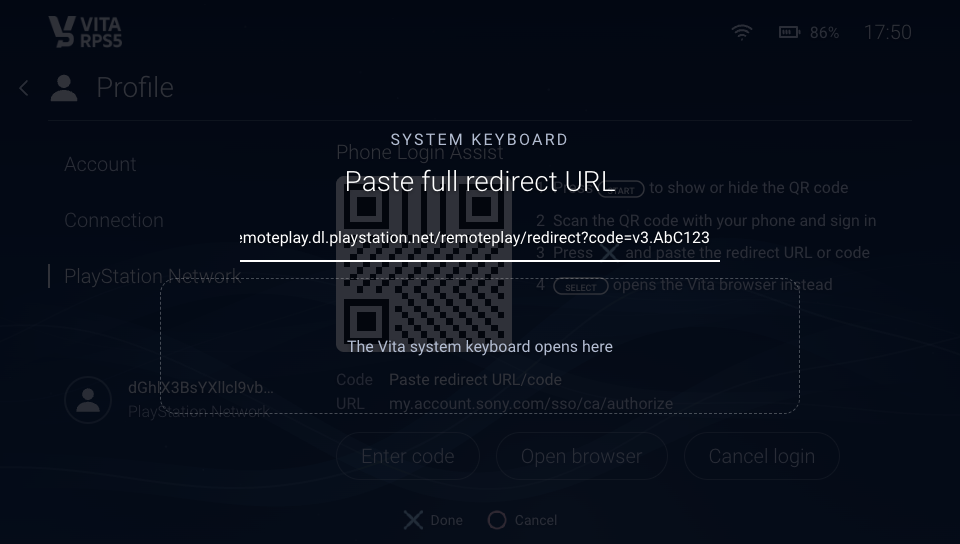
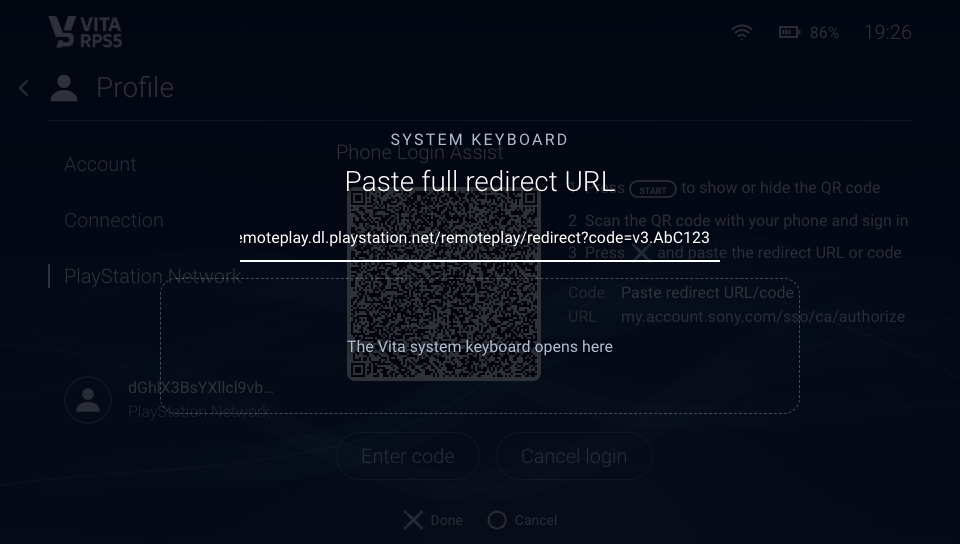
docs(ui): mock matches the built Phone Login Assist pane (#351) (#352)
* docs(ui): mock matches the built Phone Login Assist pane (#351)

PR #350 built a 216 px QR slot with a 194 px plate (93 modules at 2 px plus a
2-module quiet zone), three steps, Code and URL in the text column under the
steps, and only Enter code / Cancel login. The mock still showed the old
176 px 25-module QR, a fourth Select-to-browser step, an Open browser button
and a Select handler. Gallery images regenerated.

Claude-Session: https://claude.ai/code/session_01CJGPK2AVTJiLxQiddAML7V

* docs(ui): mock QR fill is irregular, not a checkerboard (#351)

The generator's multiplier and increment are both odd, so the low bit of the
seed alternates every step and picking on it drew every other module. Pick
on bit 8 instead.

Claude-Session: https://claude.ai/code/session_01CJGPK2AVTJiLxQiddAML7V

---------

diff --git a/docs/design/ui-mocks/xmb-app.js b/docs/design/ui-mocks/xmb-app.js
@@ -312,7 +312,7 @@ function paintPage(full){
 }
 function pageHints(){
  const P=S.pg,{rs,i}=curRow(),r=rs[i];
- if(P.kind==='profile'&&P.g===2&&psnState()==='await')return [['confirm','Enter code',{key:'ok'}],['start','QR',{key:'start'}],['select','Browser',{key:'select'}],['sq','Cancel login',{key:'sq'}]];
+ if(P.kind==='profile'&&P.g===2&&psnState()==='await')return [['confirm','Enter code',{key:'ok'}],['start','QR',{key:'start'}],['sq','Cancel login',{key:'sq'}]];
  if(P.focus==='g')return [['confirm','Open',{key:'ok'}],['cancel','Back',{key:'back'}]];
  const L=[];
  if(r.type==='toggle')L.push(['confirm','Toggle',{key:'ok'}]);
@@ -322,12 +322,13 @@ function pageHints(){
  return L;
 }
 function loginHTML(){
- const SHORT_URL='my.account.sony.com/sso/ca/authorize'; /* display only; the full authorize URL stays in memory for the QR and the browser */
- const qr=S.qr?`<div class="qr" data-do="qrtog"><svg viewBox="0 0 25 25" width="160" height="160" shape-rendering="crispEdges">${qrSvg()}</svg></div>`:`<div class="qr hid" data-do="qrtog">QR hidden</div>`;
- return `<div class="lgn"><h3>Phone Login Assist</h3><div class="cols">${qr}<div class="st"><div>1&nbsp; Press ${inl('start')} to show or hide the QR code</div><div>2&nbsp; Scan the QR code with your phone and sign in</div><div>3&nbsp; Press ${inl('confirm')} and paste the redirect URL or code</div><div>4&nbsp; ${inl('select')} opens the Vita browser instead</div></div></div>
- <div class="st" style="margin-top:16px;display:grid;grid-template-columns:auto 1fr;gap:0 16px"><span style="color:var(--text-3)">Code</span><b>Paste redirect URL/code</b><span style="color:var(--text-3)">URL</span><b style="color:var(--text-2)">${SHORT_URL}</b></div></div><div class="lbtns">${tbtn('Enter code',{do:'btn',arg:'ok'})}${tbtn('Open browser',{do:'btn',arg:'select'})}${tbtn('Cancel login',{do:'btn',arg:'sq'})}</div>`;
+ const SHORT_URL='my.account.sony.com/sso/ca/authorize'; /* display only; the full authorize URL stays in memory for the QR only */
+ const qr=S.qr?`<div class="qr" data-do="qrtog"><svg viewBox="0 0 97 97" width="194" height="194" shape-rendering="crispEdges">${qrSvg()}</svg></div>`:`<div class="qr hid" data-do="qrtog">QR hidden</div>`;
+ return `<div class="lgn"><h3>Phone Login Assist</h3><div class="cols">${qr}<div class="txt"><div class="st"><div>1&nbsp; Press ${inl('start')} to show or hide the QR code</div><div>2&nbsp; Scan the QR code with your phone and sign in</div><div>3&nbsp; Press ${inl('confirm')} and paste the redirect URL or code</div></div>
+ <div class="st inf"><span style="color:var(--text-3)">Code</span><b>Paste redirect URL/code</b><span style="color:var(--text-3)">URL</span><b style="color:var(--text-2)">${SHORT_URL}</b></div></div></div></div><div class="lbtns">${tbtn('Enter code',{do:'btn',arg:'ok'})}${tbtn('Cancel login',{do:'btn',arg:'sq'})}</div>`;
 }
-function qrSvg(){let s='';const f=(x,y)=>`<rect x="${x}" y="${y}" width="7" height="7" fill="#0a0a0a"/><rect x="${x+1}" y="${y+1}" width="5" height="5" fill="#fafafa"/><rect x="${x+2}" y="${y+2}" width="3" height="3" fill="#0a0a0a"/>`;s+=f(0,0)+f(18,0)+f(0,18);let r=7;for(let y=0;y<25;y++)for(let x=0;x<25;x++){if((x<8&&y<8)||(x>16&&y<8)||(x<8&&y>16))continue;r=(r*9301+49297)%233280;if(r%3===0)s+=`<rect x="${x}" y="${y}" width="1" height="1" fill="#0a0a0a"/>`;}return s;}
+/* Illustrative 93-module code (QR version 18) inside a 2-module quiet zone: 97 modules at 2 px = the 194 px plate. Not a real code; finders in three corners, pseudo-random fill. */
+function qrSvg(){const N=93,Q=2,ink='#0a0a0a';let s='';const f=(x,y)=>`<rect x="${x+Q}" y="${y+Q}" width="7" height="7" fill="${ink}"/><rect x="${x+Q+1}" y="${y+Q+1}" width="5" height="5" fill="#fafafa"/><rect x="${x+Q+2}" y="${y+Q+2}" width="3" height="3" fill="${ink}"/>`;s+=f(0,0)+f(N-7,0)+f(0,N-7);let r=7;for(let y=0;y<N;y++)for(let x=0;x<N;x++){if((x<8&&y<8)||(x>N-9&&y<8)||(x<8&&y>N-9))continue;r=(r*9301+49297)%233280;if(((r>>8)&1)===0)s+=`<rect x="${x+Q}" y="${y+Q}" width="1" height="1" fill="${ink}"/>`;}return s;}
 function openPage(kind,g,focus='r'){
  S.pg={kind,g:g||0,focus,row:S.pg.kind===kind?S.pg.row:{}};S.screen='page';showOnly('page');paintTop();paintPage(true);
 }
@@ -558,7 +559,6 @@ function pageKey(k){
  if(login){
   if(k==='ok')return keyboard({title:'Paste full redirect URL',text:'https://remoteplay.dl.playstation.net/remoteplay/redirect?code=v3.AbC123',done:()=>{S.psn='auth';paintPage(true);toast('PSN login complete','ok','check');}});
   if(k==='start'){S.qr=!S.qr;paintPage(false);return toast(S.qr?'QR shown. Scan it with your phone.':'QR hidden. Press Start to show it again.');}
-  if(k==='select')return toast('Opened browser fallback. Phone QR is still recommended.');
   if(k==='sq'){S.psn='none';paintPage(true);return toast('PSN login canceled');}
   if(k==='back'){P.focus='g';S.psn='none';paintPage(true);}
   return;

diff --git a/docs/design/ui-mocks/xmb.css b/docs/design/ui-mocks/xmb.css
@@ -272,11 +272,15 @@ radial-gradient(ellipse 50% 40% at 20% 20%,rgba(90,120,220,.22),transparent 70%)
 /* C18 QrPanel / login assist */
 .lgn{position:absolute;left:336px;top:var(--body-y);width:576px;height:288px;animation:rise var(--d2) var(--ease)}
 .lgn h3{font-size:var(--t20);font-weight:var(--w-light);line-height:32px;margin-bottom:var(--s1);color:var(--text)}
-.lgn .qr{width:176px;height:176px;background:var(--qr-plate);padding:8px;flex:none;display:flex;align-items:center;justify-content:center}
-.lgn .qr.hid{background:var(--qr-hidden);color:var(--text-3);font-size:var(--t16);font-weight:var(--w-reg)}
-.lgn .cols{display:flex;gap:var(--s3)}
+.lgn .qr{width:194px;height:194px;margin:11px;background:var(--qr-plate);flex:none;display:flex;align-items:center;justify-content:center}
+.lgn .qr svg{display:block}
+.lgn .qr.hid{width:216px;height:216px;margin:0;background:var(--qr-hidden);color:var(--text-3);font-size:var(--t16);font-weight:var(--w-reg)}
+.lgn .cols{display:flex;gap:var(--s2)}
+.lgn .txt{flex:1;min-width:0}
+.lgn .inf{margin-top:var(--s2);display:grid;grid-template-columns:auto 1fr;gap:0 var(--s2)}
+.lgn .inf b{display:block}
 .lgn .st{font-size:var(--t16);font-weight:var(--w-reg);line-height:24px;color:var(--text-2)}
-.lgn .st div{margin-bottom:var(--s1)}
+.lgn .st>div{margin-bottom:var(--s1)}
 .lgn .st b{font-weight:400;color:var(--text);display:block;word-break:break-all}
 
 /* C20/C21 controller diagram, callouts, zones */
